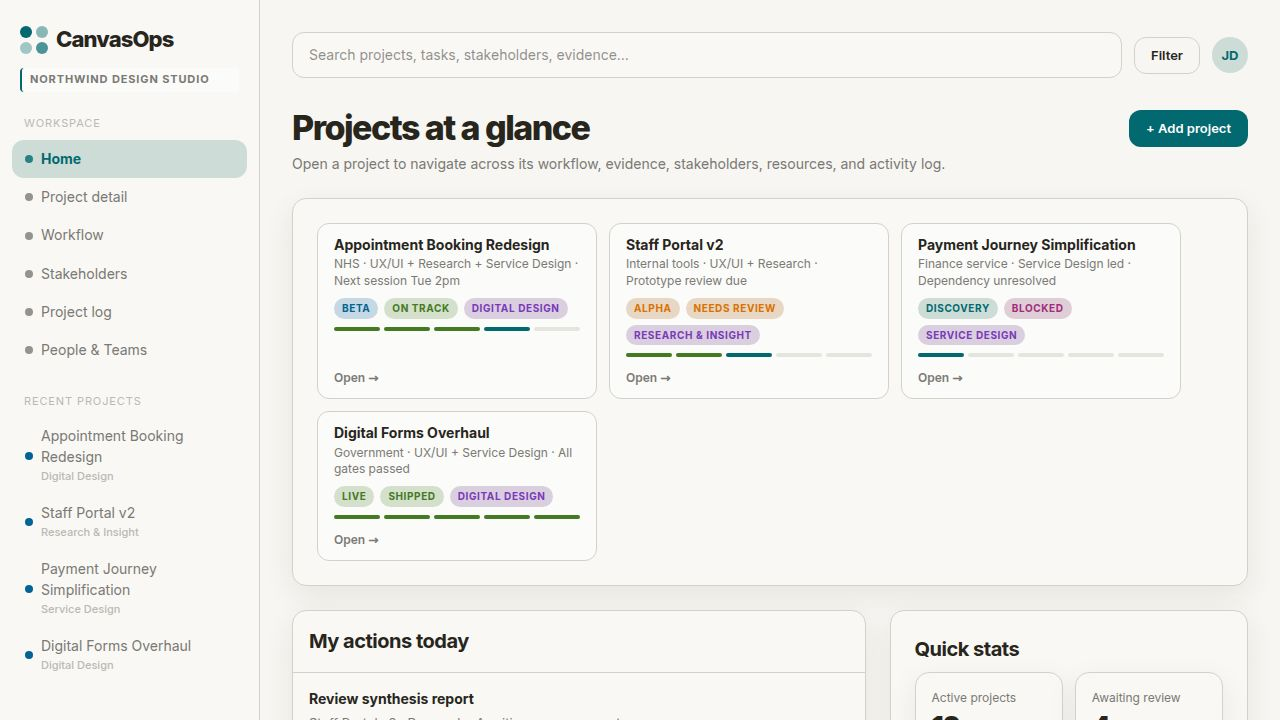
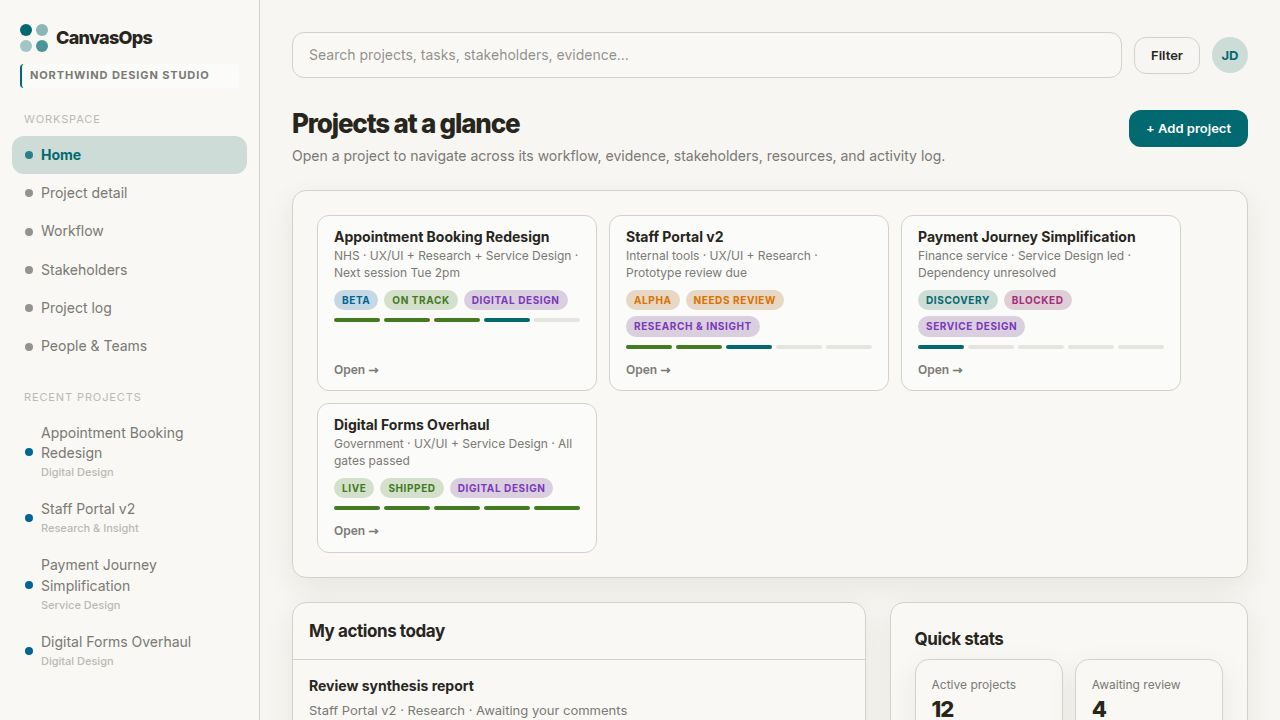
Task #10: Show a friendly empty state when there are no projects yet
Original task: When the projects list is empty, the "Projects at a glance"
card on the home view rendered as an empty bordered container, looking
broken. Add a centered empty state with a heading, supporting copy, and
a single primary CTA. Existing behavior with projects must remain
unchanged.

Implementation:
- artifacts/canvasops/src/pages/HomeView.tsx
  - Added a `projects.length === 0` branch inside the existing
    `card pad` container that renders a `.project-strip-empty` block
    with:
      - h3 title: "No projects yet"
      - subcopy: "Create a project to start tracking workflow,
        evidence, and stakeholders."
      - primary button "Create your first project" wired to
        `setProjectModalOpen(true)` (same handler as the existing
        "+ Add project" header button, so AddProjectModal opens).
  - When there is at least one project, the existing `.project-strip`
    map renders unchanged.

- artifacts/canvasops/src/index.css
  - Added `.project-strip-empty`, `.project-strip-empty-title`, and
    `.project-strip-empty-sub` styles using existing design tokens
    (--space-*, --text, --muted) for vertical centering, comfortable
    padding, and consistent typography. No existing rules modified.

Verification:
- Restarted `artifacts/canvasops: web` workflow; Vite served cleanly.
- Screenshot of `/` confirms the populated project strip still
  renders identically (4 project cards, badges, mini progress, Open).
[…]

diff --git a/artifacts/canvasops/src/pages/HomeView.tsx b/artifacts/canvasops/src/pages/HomeView.tsx
@@ -61,19 +61,31 @@ export function HomeView() {
       </div>
 
       <div className="card pad">
-        <div className="project-strip">
-          {projects.map((p) => {
-            const team = p.teamId ? teamById.get(p.teamId) : undefined;
-            return (
-              <ProjectCard
-                key={p.id}
-                project={p}
-                teamName={team?.name}
-                onOpen={() => openProject(p.id)}
-              />
-            );
-          })}
-        </div>
+        {projects.length === 0 ? (
+          <div className="project-strip-empty">
+            <h3 className="project-strip-empty-title">No projects yet</h3>
+            <p className="project-strip-empty-sub">
+              Create a project to start tracking workflow, evidence, and stakeholders.
+            </p>
+            <button className="btn primary" onClick={() => setProjectModalOpen(true)}>
+              Create your first project
+            </button>
+          </div>
+        ) : (
+          <div className="project-strip">
+            {projects.map((p) => {
+              const team = p.teamId ? teamById.get(p.teamId) : undefined;
+              return (
+                <ProjectCard
+                  key={p.id}
+                  project={p}
+                  teamName={team?.name}
+                  onOpen={() => openProject(p.id)}
+                />
+              );
+            })}
+          </div>
+        )}
       </div>
 
       <div className="grid-2">

diff --git a/artifacts/canvasops/src/index.css b/artifacts/canvasops/src/index.css
@@ -315,6 +315,31 @@ h1 {
   gap: var(--space-3);
 }
 
+.project-strip-empty {
+  display: flex;
+  flex-direction: column;
+  align-items: center;
+  justify-content: center;
+  text-align: center;
+  gap: var(--space-2);
+  padding: var(--space-5) var(--space-4);
+}
+
+.project-strip-empty-title {
+  margin: 0;
+  font-size: 16px;
+  font-weight: 700;
+  color: var(--text);
+}
+
+.project-strip-empty-sub {
+  margin: 0 0 var(--space-2);
+  max-width: 420px;
+  color: var(--muted);
+  font-size: 13px;
+  line-height: 1.5;
+}
+
 .project-card {
   flex: 1 1 220px;
   min-width: 200px;